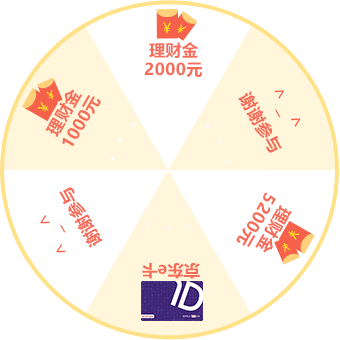
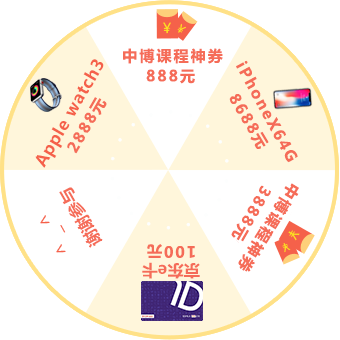
xinjian

diff --git a/src/components/Rotate.vue b/src/components/Rotate.vue
@@ -29,7 +29,6 @@
 
 <script>
   import '../public/js/jquery.rotate.min';
-  import '../public/js/rotate';
   import publicbtn from './Publicbtn.vue';
   export default {
     data() {
@@ -44,6 +43,73 @@
       hide:function(){
         this.$emit('change-v',this.close);
       }
+    },
+    mounted:function(){
+          var $btn = $('.playbtn');
+          var playnum = 1; //初始次数，由后台传入
+          $('.playnum').html(playnum);
+          var isture = 0;
+          var clickfunc = function() {
+            var data = [1, 2, 3, 4, 5, 6];
+            //data为随机出来的结果，根据概率后的结果
+            data = data[Math.floor(Math.random() * data.length)];
+            switch(data) {
+              case 1:
+                rotateFunc(2, 60, '恭喜您获得888元中博课程神券！');
+                break;
+              case 2:
+                rotateFunc(2, 60, '恭喜您获得8688元iPhone X 64G！');
+                break;
+              case 3:
+                rotateFunc(3, 120, '恭喜您获得3888元中博课程神券！');
+                break;
+              case 4:
+                rotateFunc(4, 180, '恭喜您获得100元京东E卡!');
+                break;
+              case 5:
+                rotateFunc(5, 240, '谢谢参与~再来一次吧~');
+                break;
+              case 6:
+                rotateFunc(6, 300, '恭喜您获得2888元Appwatch3!');
+                break;
+            }
+          }
+          $btn.click(function() {
+            if(isture) return; // 如果在执行就退出
+            isture = true; // 标志为 在执行
+            //先判断是否登录,未登录则执行下面的函数
+            if(1 == 2) {
+              $('.playnum').html('0');
+              alert("请先登录");
+              isture = false;
+            } else { //登录了就执行下面
+              if(playnum <= 0) { //当抽奖次数为0的时候执行
+                alert("没有次数了");
+                $('.playnum').html(0);
+                isture = false;
+              } else { //还有次数就执行
+                playnum = playnum - 1; //执行转盘了则次数减1
+                if(playnum <= 0) {
+                  playnum = 0;
+                }
+                $('.playnum').html(playnum);
+                clickfunc();
+              }
+            }
+          });
+          var rotateFunc = function(awards, angle, text) {
+            isture = true;
+            $btn.stopRotate();
+            $btn.rotate({
+              angle: 0,
+              duration: 4000, //旋转时间
+              animateTo: angle + 1440, //让它根据得出来的结果加上1440度旋转
+              callback: function() {
+                isture = false; // 标志为 执行完毕
+                alert(text);
+              }
+            });
+          };
     }
   }
 </script>

diff --git a/src/public/js/rotate.js b/src/public/js/rotate.js
@@ -1,4 +1,5 @@
 $(function() {
+  alert(123);
   var $btn = $('.playbtn');
   var playnum = 1; //初始次数，由后台传入
   $('.playnum').html(playnum);
@@ -9,22 +10,22 @@ $(function() {
     data = data[Math.floor(Math.random() * data.length)];
     switch(data) {
       case 1:
-        rotateFunc(1, 0, '恭喜您获得2000元理财金!');
+        rotateFunc(2, 60, '恭喜您获得888元中博课程神券！');
         break;
       case 2:
-        rotateFunc(2, 60, '谢谢参与~再来一次吧~');
+        rotateFunc(2, 60, '恭喜您获得8688元iPhone X 64G！');
         break;
       case 3:
-        rotateFunc(3, 120, '恭喜您获得5200元理财金!');
+        rotateFunc(3, 120, '恭喜您获得3888元中博课程神券！');
         break;
       case 4:
-        rotateFunc(4, 180, '恭喜您获得100元京东E卡，将在次日以短信形式下发到您的手机上，请注意查收!');
+        rotateFunc(4, 180, '恭喜您获得100元京东E卡!');
         break;
       case 5:
         rotateFunc(5, 240, '谢谢参与~再来一次吧~');
         break;
       case 6:
-        rotateFunc(6, 300, '恭喜您获得1000元理财金!');
+        rotateFunc(6, 300, '恭喜您获得2888元Appwatch3!');
         break;
     }
   }

diff --git a/src/components/Listdetail.vue b/src/components/Listdetail.vue
@@ -1,7 +1,7 @@
 <template>
     <div class="content">
       <Publicbtn></Publicbtn>
-      <div class="z_tc">
+      <div class="z_tc" @click="hide()">
         <div class="z_arrow">
           <img src="../public/img/z_arrow.png" alt="">
         </div>
@@ -51,7 +51,10 @@
         },
         methods: {
           fn(){
-            $('.z_tc').slideDown(300)
+            $('.z_tc').slideDown(100);
+          },
+          hide(){
+            $('.z_tc').slideUp(100);
           }
 
         }

diff --git a/src/components/Sign.vue b/src/components/Sign.vue
@@ -34,7 +34,7 @@
         		if(confirm('确定要提交吗？')){
         			alert('提交成功！');
         			this.$router.push({
-        				path:'/userdetail/myjoin'
+        				path:'/userdetail/mystart'
         			})
         		}
         	}
